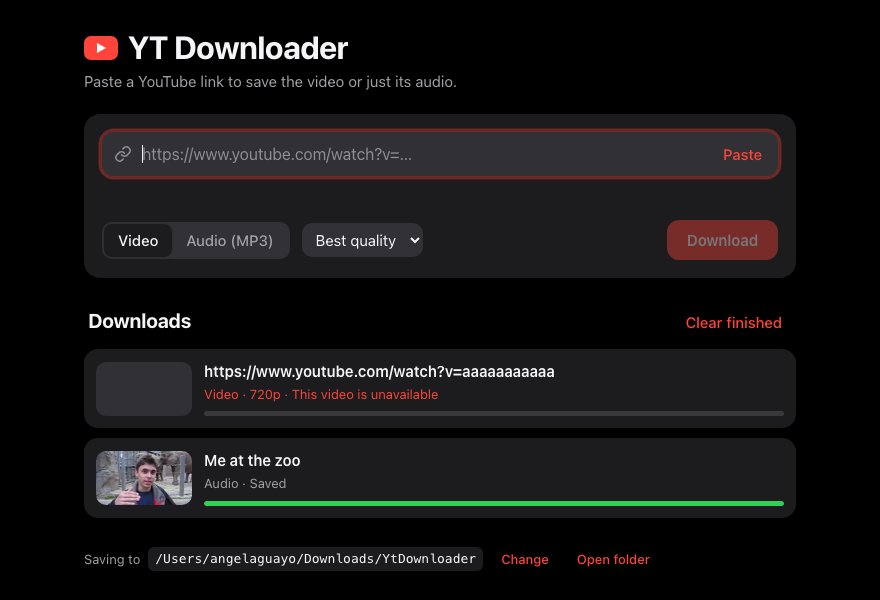
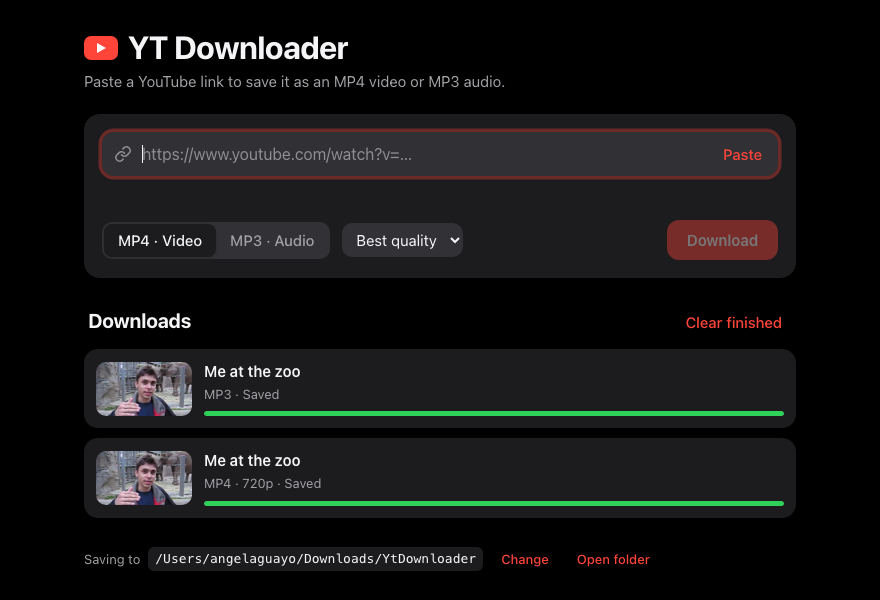
README: new MP4/MP3 screenshot, simpler setup text

diff --git a/README.md b/README.md
@@ -16,11 +16,8 @@ The app isn't code-signed, so Windows SmartScreen may warn the first time. Click
 
 ## Run from source
 
-You need:
-1. **Python 3.10 or newer.** Current yt-dlp no longer supports 3.9.
-2. That's it. YouTube now requires solving a JavaScript challenge before it serves a video, and the requirements include the official Deno runtime for that, installed through pip.
+You need **Python 3.10 or newer** (current yt-dlp no longer supports 3.9) and nothing else. YouTube now requires solving a JavaScript challenge before it serves a video, and the requirements include the official Deno runtime for that.
 
-Then:
 
 ```bash
 pip install -r requirements.txt
